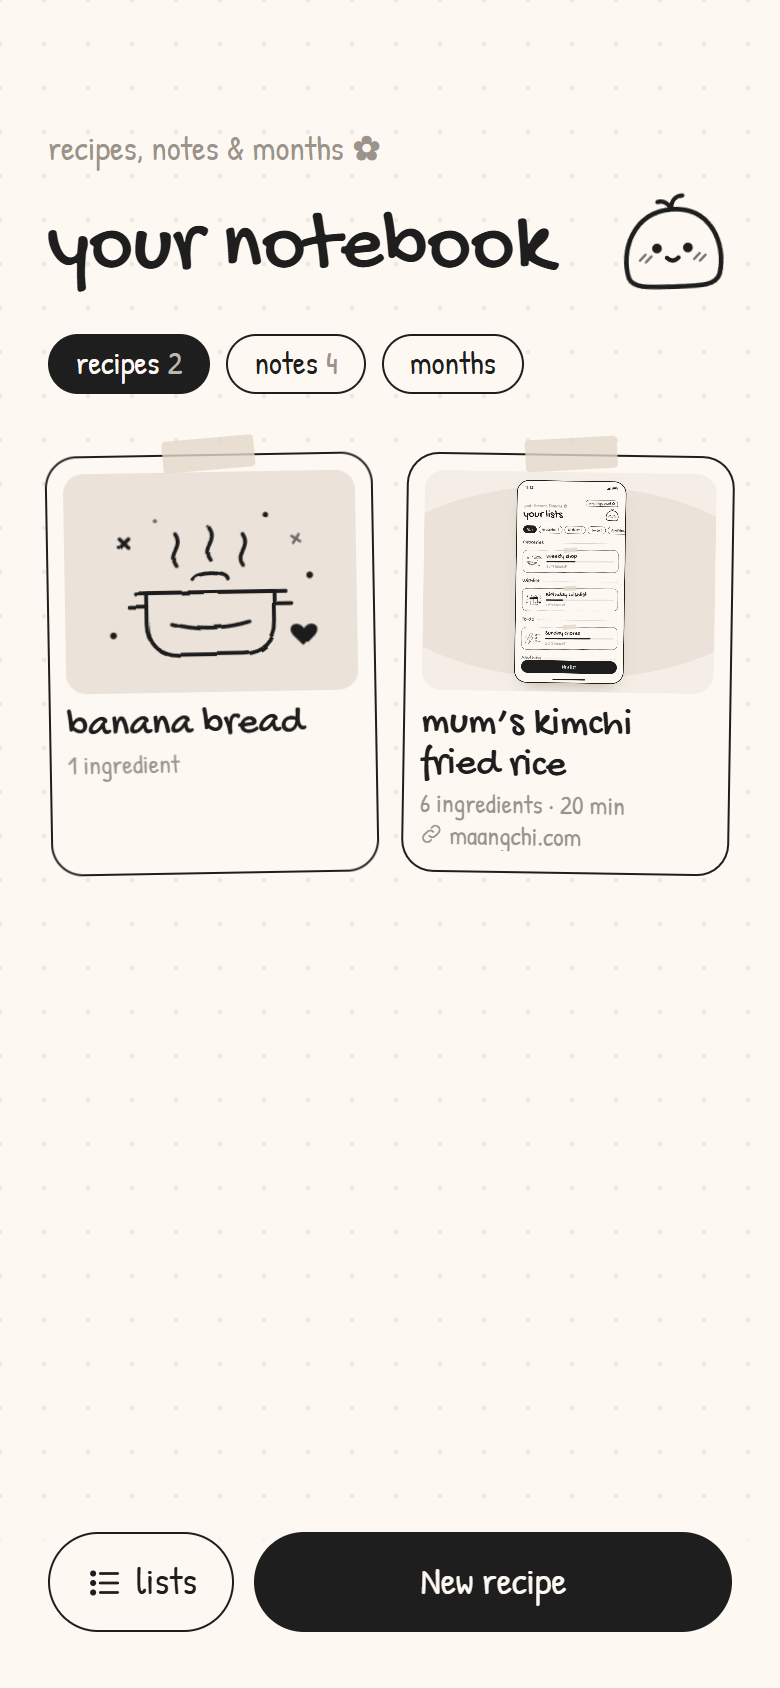
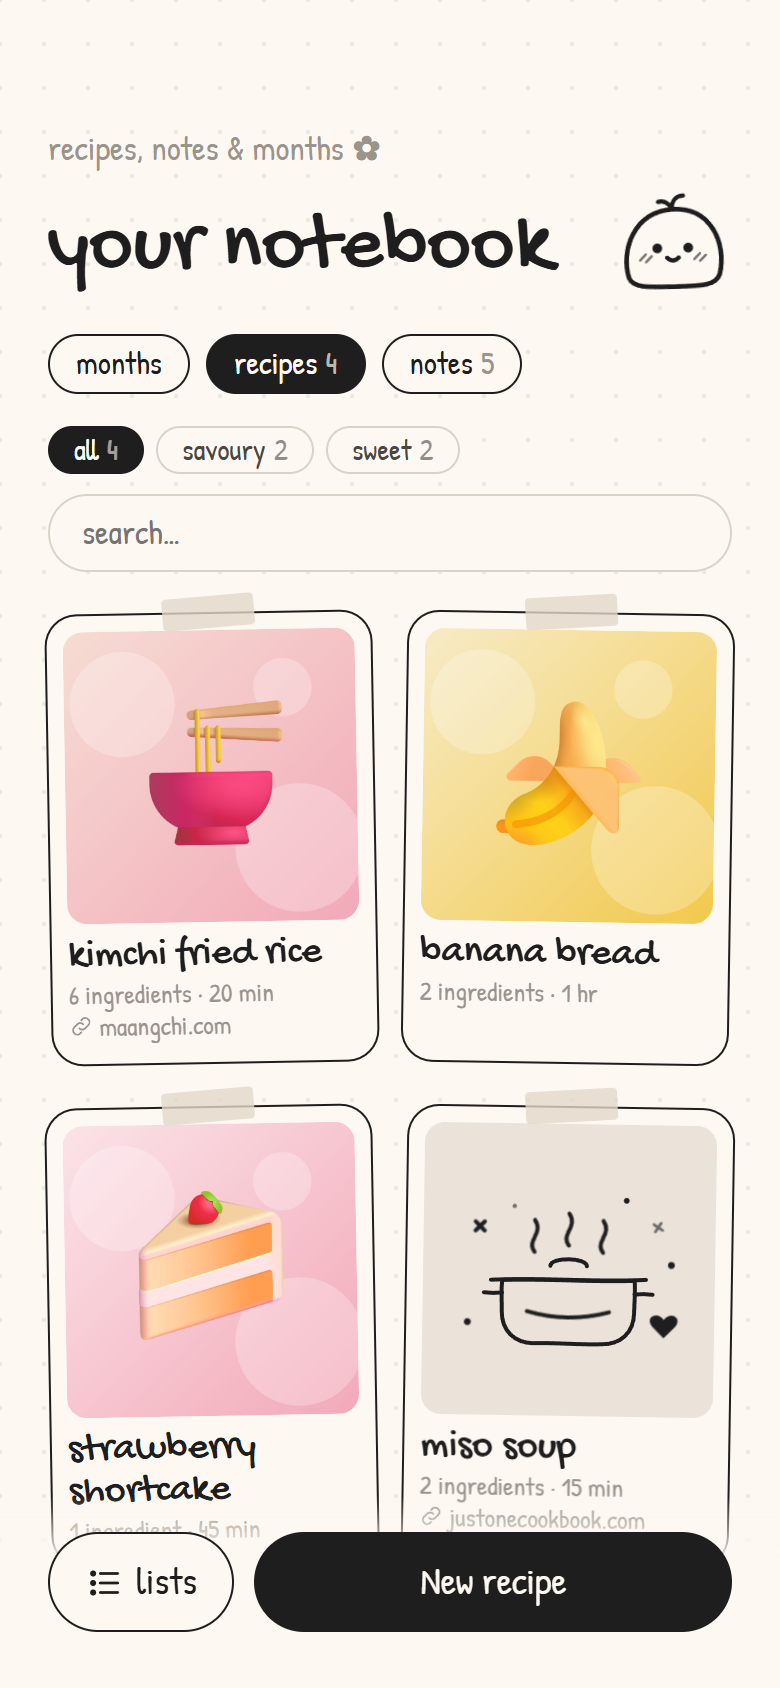
README: new screenshots and features (notebook, drawing, sync), data and privacy section

diff --git a/README.md b/README.md
@@ -1,6 +1,6 @@
 # Scribbles ✿
 
-A tiny, doodly app for lists, recipes, notes and monthly recaps. It's minimal, cute and hand-drawn, a bit like a notebook page.
+A tiny, doodly app for lists, recipes, notes and monthly recaps. It's minimal, cute and hand-drawn, a bit like a notebook page, and it syncs between your devices.
 
 **Live:** https://scribble-lists.vercel.app
 
@@ -22,37 +22,51 @@ A tiny, doodly app for lists, recipes, notes and monthly recaps. It's minimal, c
     <td align="center"><img src="screenshots/6-done.png" alt="Finishing a list with sparkles and a mascot toast" width="220"><br><sub>All done celebration</sub></td>
   </tr>
   <tr>
-    <td align="center"><img src="screenshots/7-month.png" alt="Monthly recap calendar with notes, a photo and stickers" width="220"><br><sub>Monthly recap</sub></td>
-    <td align="center"><img src="screenshots/8-recipes.png" alt="Notebook with recipe cards" width="220"><br><sub>Notebook: recipes</sub></td>
-    <td align="center"><img src="screenshots/9-recipe.png" alt="A recipe with a photo, time, servings and a link" width="220"><br><sub>A recipe</sub></td>
+    <td align="center"><img src="screenshots/7-month.png" alt="Monthly recap calendar with day notes, photos, stickers and a drawing" width="220"><br><sub>Monthly recap</sub></td>
+    <td align="center"><img src="screenshots/8-recipes.png" alt="Notebook with recipe cards, filtered by savoury and sweet" width="220"><br><sub>Notebook: recipes</sub></td>
+    <td align="center"><img src="screenshots/9-recipe.png" alt="A recipe with a square photo, time, servings, a link and ingredients" width="220"><br><sub>A recipe</sub></td>
   </tr>
   <tr>
     <td align="center"><img src="screenshots/10-notes.png" alt="Coloured sticky notes in the notebook" width="220"><br><sub>Notebook: notes</sub></td>
+    <td align="center"><img src="screenshots/11-note.png" alt="A note on peach paper with a date stamp and a polaroid photo" width="220"><br><sub>A note with a photo &amp; date stamp</sub></td>
+    <td align="center"><img src="screenshots/12-draw.png" alt="The drawing pad with pen, marker, eraser and colours" width="220"><br><sub>Draw your own</sub></td>
+  </tr>
+  <tr>
+    <td align="center"><img src="screenshots/13-sync.png" alt="Sign in with Google or email to sync" width="220"><br><sub>Sign in &amp; sync</sub></td>
   </tr>
 </table>
 
 ## Features
 
+**Lists**
 - **Lists by type:** Groceries, Wishlist, To-do or Anything. The home screen groups your lists by type, and you can filter them.
-- **Groups inside a list:** for example "Dairy" and "Produce" in a grocery list, or "Birthday" and "Someday" in a wishlist. Tap a name to rename it.
-- **Setup steps:** your name, the list's name and its type, then "you're ready".
-- **Hand-drawn feel:** wobbly ink doodles with gentle idle animations, handwritten fonts (Gochi Hand and Patrick Hand), and cards taped on like paper scraps.
-- **A mochi mascot:** it blinks and sways, hops when you add something, and says something nice when you tap it.
+- **Groups inside a list:** for example "Basket" and "Produce" in a grocery list. Tap a name to rename it.
+- **Satisfying tick-offs:** a crayon scribble crosses each item out, with small sparkles. Finishing a list gets a bigger burst and a note from the mascot.
+- **Auto stickers:** small line icons appear on items like eggs, ramen, soap, coffee and gifts, and on everyday stuff like workouts, naps, chores, pets, plants, bills… and poop 💩.
 - **Repeating items:** tap the loop icon to repeat an item every day, week, 2 weeks or month, or only on certain days (like Mon · Thu). It unticks itself when it's due again. Only to-do and "anything" lists repeat.
-- **Monthly recap:** a doodly calendar page for each month. Write a little note on any day, add photos, stickers (doodles, scribbles, stamps, tape and arrows) and your own words, then drag, pinch and twist them into place. Draw your own doodles too. Zoom in with the + / − buttons or two fingers on the calendar to place things precisely. Days show how many things you ticked off, and tapping a day lists them. Save the page as an image or a PDF. It lives in the notebook.
-- **Notebook:** a second little app next to your lists, with three tabs:
-  - **months:** every monthly recap page.
-  - **recipes:** sorted into savoury and sweet. Each one has a photo (cropped square when you add it), time, servings, a link to the original, bullet-point ingredients, numbered steps and notes. Paste a whole ingredient list or method and each line becomes its own row. Tick off ingredients and steps while you cook, and send the rest to a grocery list in one tap.
-  - **notes:** a dotted or blank page for ideas and anything else, in five paper colours. Add photos in polaroid, taped, round or plain frames, drawings, and an optional date stamp. Search appears once you have a few.
+
+**Notebook** (the second little app, next to your lists)
+- **months:** a doodly calendar page for each month. Write a note on any day, add photos, stickers (doodles, scribbles, stamps, tape and arrows), your own words and your own drawings, then drag, pinch and twist them into place. Zoom in with the + / − buttons or two fingers. Days show how many things you ticked off, and tapping a day lists them. Save the page as an image or a PDF.
+- **recipes:** sorted into savoury and sweet. Each one has a photo (cropped square when you add it), time, servings, a link to the original, bullet-point ingredients, numbered steps and notes. Paste a whole ingredient list or method and each line becomes its own row. Tick things off while you cook, and send the rest to a grocery list in one tap.
+- **notes:** a dotted or blank page in five paper colours, with photos (polaroid, taped, round or plain), drawings and an optional date stamp. Search appears once you have a few.
+
+**Drawing**
+- A drawing pad with a pen, a see-through marker and an eraser, seven colours, undo and clear. With an Apple Pencil, lines get thicker the harder you press, and your resting hand won't draw. Drawings can be edited later, stroke by stroke.
+
+**Sync**
+- Sign in with **Google**, or with an email and password, to see everything on all your devices. The first sign-in on a device adds whatever is already on it to your account. It keeps working offline and catches up when you're back.
+
+**The feel**
+- **Hand-drawn:** ink doodles with gentle idle animations, handwritten fonts (Gochi Hand and Patrick Hand), and cards taped on like paper scraps.
+- **A mochi mascot:** it blinks and sways, hops when you add something, and says something nice when you tap it.
 - **Cute sounds:** a paper-scratch when you tick something off, pops, a boing when you poke the mochi and a little chime when a list is done. All made in the browser, and you can mute them from the home screen.
 - **An easter egg:** try typing a certain song name 🎵
-- **Satisfying tick-offs:** a crayon scribble crosses each item out, with small sparkles. Finishing a list gets a bigger burst and a note from the mascot.
-- **Auto stickers:** small line icons appear on items like eggs, meat, ramen, soap, coffee and gifts, and on everyday stuff like workouts, naps, chores, pets, plants, bills… and poop 💩.
 - **Reduced motion:** turns the animations off when your device asks for less motion.
-
 - **Installable:** it's a PWA, so you can add it to your home screen and it opens full-screen like a normal app, even offline.
 
-Everything is saved on your device first (localStorage, with photos and drawings in IndexedDB), so the app works offline. Sign in (the cloud on the home screen) to sync it all between devices through Supabase: your things are in a private table and photo folder that only your account can read. The first sign-in on a device adds whatever is already on it to your account.
+## Your data
+
+Everything is saved on your device first (localStorage, with photos and drawings in IndexedDB), so the app works without an account. When you sign in, it syncs through [Supabase](https://supabase.com): your things live in a private table and photo folder that only your account can read or change. No ads, no tracking. See the [privacy page](https://scribble-lists.vercel.app/privacy.html) and [terms](https://scribble-lists.vercel.app/terms.html).
 
 ## Install on your phone
 
@@ -62,25 +76,28 @@ Everything is saved on your device first (localStorage, with photos and drawings
 
 ## Tech
 
-Plain HTML, CSS and JavaScript, with no framework and no build step.
+Plain HTML, CSS and JavaScript, with no framework, no libraries and no build step.
 
 | File | What's in it |
 | --- | --- |
-| `index.html` | Page shell, fonts and the wobbly-line SVG filter |
+| `index.html` | Page shell and fonts |
 | `style.css` | Look, layout and animations |
 | `app.js` | Doodles, mascot, screens and saving |
+| `recap.js` | Month stickers, photo storage and the image / PDF export |
 | `draw.js` | The drawing pad: pen, marker and eraser, colours, undo, and Apple Pencil pressure |
 | `sync.js` | Sign-in (Google, or email and password) and syncing with Supabase over plain fetch: what changed here, what changed elsewhere, merging, photos |
-| `recap.js` | Month recap stickers, photo storage and the image / PDF export |
+| `privacy.html`, `terms.html` | The privacy and terms pages |
 | `manifest.webmanifest`, `sw.js`, `icons/` | Home-screen install and offline support |
 
 ## Run locally
 
-Open `index.html` in a browser, or serve the folder with any static server:
+Serve the folder with any static server:
 
 ```
 npx serve .
 ```
+
+Sync talks to the Supabase project set at the top of `sync.js`.
 
 ## Deploy
 
